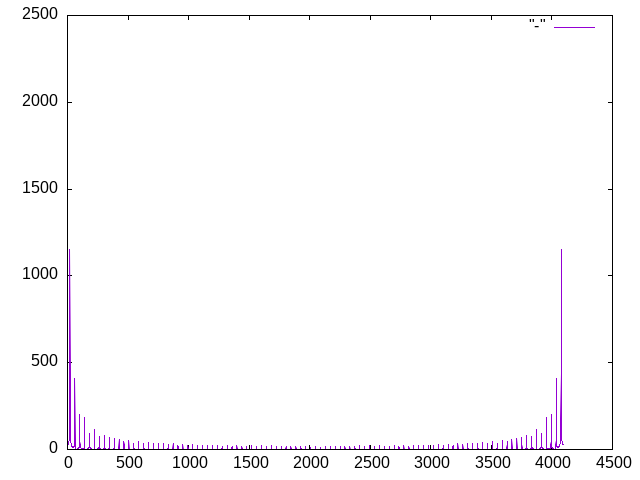
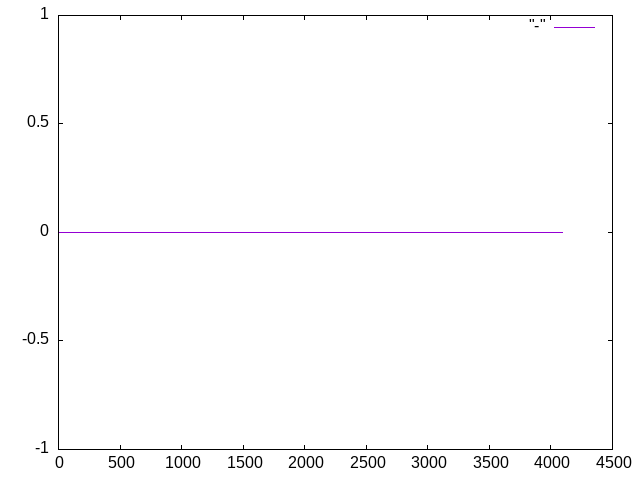
Try to get ditfft working

diff --git a/fourier.c b/fourier.c
@@ -1,6 +1,7 @@
 #include<stdio.h>
 #include<math.h>
 #include<complex.h>
+#include<stdlib.h>
 
 #define SIZE 4096
 #define PI 3.141592653589
@@ -26,18 +27,28 @@ void dft(float* x, complex* X, int N){
 }
 
 //Broken
-void ditfft(float* x, complex* X, int N, int s){
+complex* ditfft(complex* x, int N){
     if(N==1){
-        X[0] = x[0];
+        return x;
     }
-    ditfft(x, X, N/2, 2*s);
-    ditfft(x+s, X+s, N/2, 2*s);
+    complex* xe = malloc(sizeof(complex)*N/2);
+    complex* xo = malloc(sizeof(complex)*N/2);
+    for(int i = 0; i < N; i++){
+        if(i%2)
+            xo[i/2] = x[i];
+        else
+            xe[i/2] = x[i];
+    }
+    ditfft(xe, N/2);
+    ditfft(xo, N/2);
+    complex* X = malloc(sizeof(complex)*N); 
     for(int k = 0; k < N/2; k++){
         complex p = X[k];
         complex q = cexpf((-2*PI*I/N)*k)*X[k+N/2];
         X[k] = p+q;
         X[k+N/2] = p-q;
     }
+    return X;
 }
 
 void fft(complex* x, int N){
@@ -80,9 +91,9 @@ int main(){
             x[i] = 0;
         }
     }
-    fft(x, SIZE);
+    complex* res = ditfft(x, SIZE);
     for(int i = 0 ; i < SIZE; i++){
-        printf("%f\n", cabsf(x[i]));
+        printf("%f\n", cabsf(res[i]));
     }
     return 0;
 }
